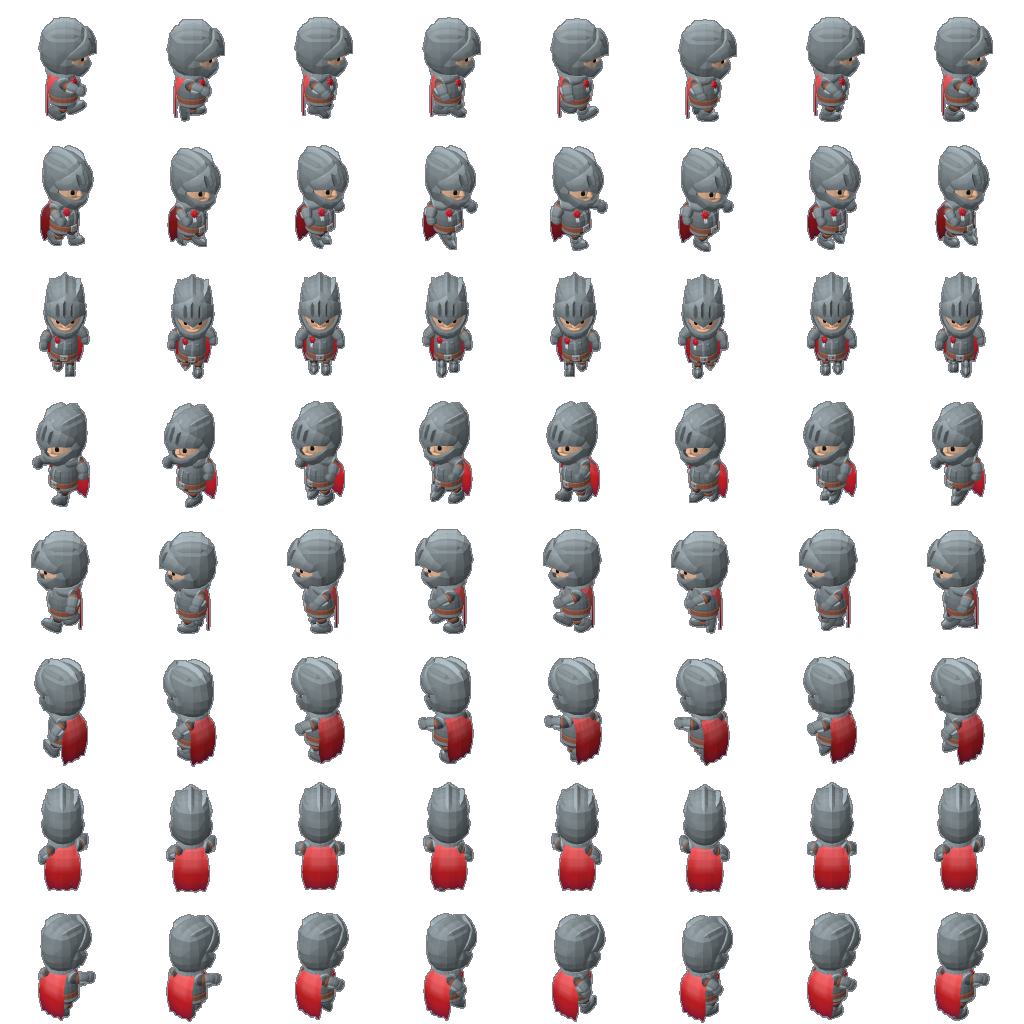
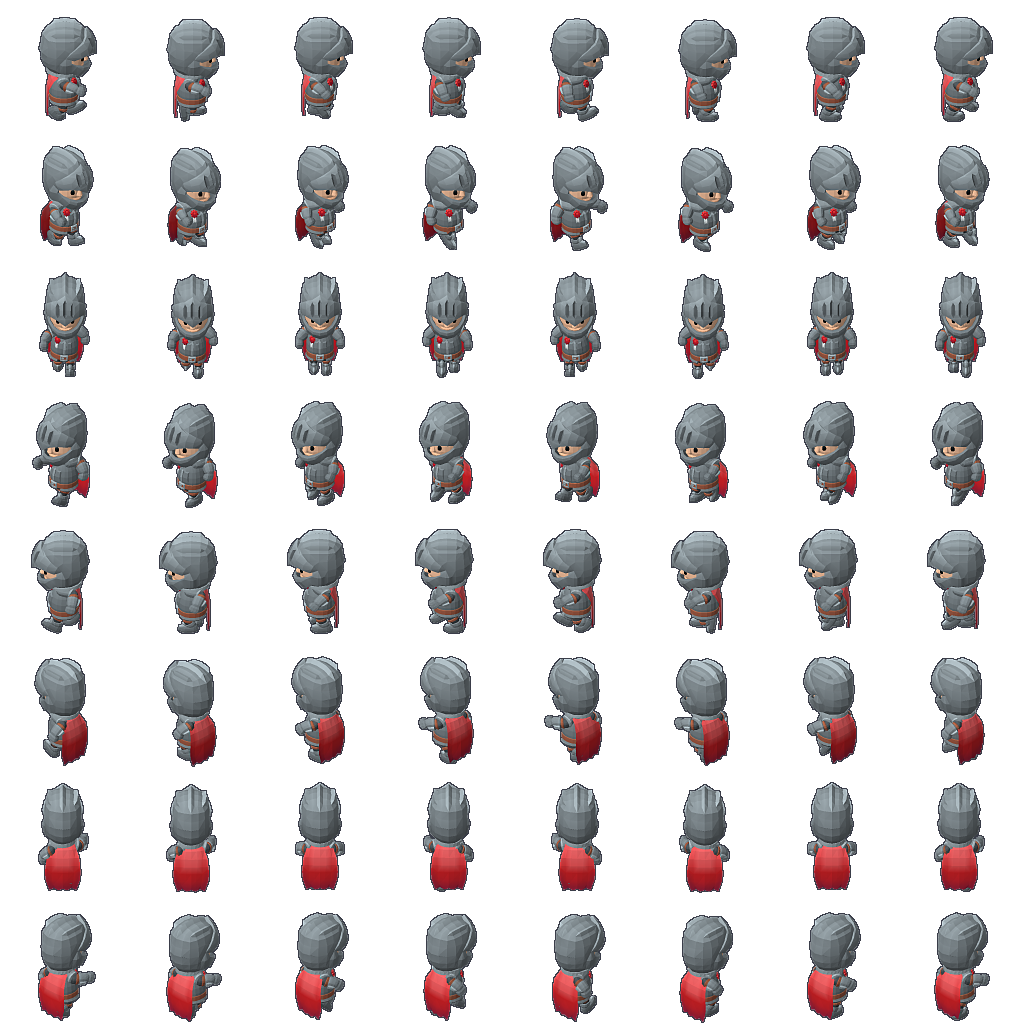
Город 0.23.2: чёткие жители, не пропадают и не замирают
Claude-Session: https://claude.ai/code/session_01NAK4mbhWpKoYFfv8XLsFMr

Changed region(s): [[0.5312, 0.6875, 0.5625, 0.7188], [0.0625, 0.9375, 0.0938, 0.9688], [0.0312, 0.4375, 0.0625, 0.4688]]

diff --git a/src/cityLive/wideLife.ts b/src/cityLive/wideLife.ts
@@ -3,33 +3,33 @@
 import type { CityRoute } from './paths.ts';
 
 export const lifeRoutes: CityRoute[] = ([
-  ['life-walk-coast-n', 'pedestrian', false, 4.2, 9, [[1957.4,890.2],[1933.9,900.0],[1915.0,906.1],[1892.9,909.1],[1872.8,909.3],[1808.2,897.8],[1710.3,876.0],[1676.9,865.3],[1655.1,853.1],[1630.6,835.6],[1619.2,825.8],[1605.5,811.2],[1598.4,799.5],[1599.0,793.0],[1587.0,783.0],[1581.0,786.3],[1573.1,786.8],[1549.3,782.9],[1499.2,781.1],[1358.8,784.7],[1328.9,787.7],[1304.4,792.8],[1270.9,803.3],[1248.2,813.8],[1164.8,869.4],[1143.3,882.2],[1120.2,891.8],[1100.8,896.8],[1061.6,902.3],[1040.3,907.6],[999.6,909.4],[970.0,905.5],[946.5,898.1],[930.8,887.3],[902.6,879.9],[883.9,872.8],[839.1,850.2],[793.5,829.9],[785.1,821.6],[786.0,819.0],[761.0,827.0],[760.4,824.9],[755.1,823.4],[745.1,816.3],[736.4,805.5],[696.6,788.1],[648.7,773.4],[577.5,749.1],[509.3,732.8],[472.4,717.5],[468.6,716.5],[454.5,718.0],[447.0,717.2],[440.2,714.4],[433.8,709.1],[426.2,698.5],[410.1,694.7],[394.0,683.5],[370.6,675.1],[279.0,648.8],[198.0,622.0],[147.2,600.7],[104.7,585.4],[97.3,579.7],[91.2,570.6],[86.6,566.8],[78.9,564.0],[80.0,563.0],[56.0,561.0],[57.3,559.0],[53.4,554.1]]],
-  ['life-walk-coast-n-back', 'pedestrian', false, 4.2, 9, [[53.4,554.1],[57.3,559.0],[56.0,561.0],[80.0,563.0],[78.9,564.0],[86.6,566.8],[91.2,570.6],[97.3,579.7],[104.7,585.4],[147.2,600.7],[198.0,622.0],[279.0,648.8],[370.6,675.1],[394.0,683.5],[410.1,694.7],[426.2,698.5],[433.8,709.1],[440.2,714.4],[447.0,717.2],[454.5,718.0],[468.6,716.5],[472.4,717.5],[509.3,732.8],[577.5,749.1],[648.7,773.4],[696.6,788.1],[736.4,805.5],[745.1,816.3],[755.1,823.4],[760.4,824.9],[761.0,827.0],[786.0,819.0],[785.1,821.6],[793.5,829.9],[839.1,850.2],[883.9,872.8],[902.6,879.9],[930.8,887.3],[946.5,898.1],[970.0,905.5],[999.6,909.4],[1040.3,907.6],[1061.6,902.3],[1100.8,896.8],[1120.2,891.8],[1143.3,882.2],[1164.8,869.4],[1248.2,813.8],[1270.9,803.3],[1304.4,792.8],[1328.9,787.7],[1358.8,784.7],[1499.2,781.1],[1549.3,782.9],[1573.1,786.8],[1581.0,786.3],[1587.0,783.0],[1599.0,793.0],[1598.4,799.5],[1605.5,811.2],[1619.2,825.8],[1630.6,835.6],[1655.1,853.1],[1676.9,865.3],[1710.3,876.0],[1808.2,897.8],[1872.8,909.3],[1892.9,909.1],[1915.0,906.1],[1933.9,900.0],[1957.4,890.2]]],
-  ['life-walk-coast-s', 'pedestrian', false, 4.2, 9, [[31.0,570.0],[53.0,569.0],[62.9,586.2],[65.8,594.4],[89.7,609.2],[103.7,610.1],[109.9,612.5],[122.9,621.7],[174.0,642.2],[178.1,643.5],[191.5,642.7],[202.4,644.6],[208.0,644.0],[213.0,665.0],[223.0,658.0],[223.5,659.6],[235.6,664.0],[312.4,687.7],[346.8,692.6],[361.2,701.3],[431.2,728.0],[476.4,749.9],[499.7,759.3],[572.9,776.9],[615.6,791.5],[644.4,795.1],[663.7,807.0],[687.4,814.4],[720.0,827.6],[821.0,872.6],[861.4,892.7],[879.5,898.2],[893.6,906.2],[908.2,910.5],[947.5,918.8],[997.2,926.4],[1032.2,929.4],[1067.3,929.5],[1102.2,925.1],[1111.8,922.6],[1130.2,912.2],[1149.0,907.9],[1167.5,900.3],[1188.9,887.3],[1255.2,841.8],[1277.7,830.7],[1301.4,822.5],[1345.0,812.1],[1501.3,809.1],[1536.4,810.0],[1550.8,813.6],[1565.5,815.2],[1568.7,817.2],[1581.3,832.9],[1595.2,841.9],[1606.3,851.9],[1634.5,872.8],[1647.1,878.9],[1661.6,880.2],[1672.0,883.2],[1682.8,889.4],[1693.6,900.3],[1702.9,903.0],[1805.9,925.9],[1835.7,929.9],[1860.8,930.1],[1895.9,928.1],[1960.4,918.2]]],
-  ['life-walk-coast-s-back', 'pedestrian', false, 4.2, 9, [[1960.4,918.2],[1895.9,928.1],[1860.8,930.1],[1835.7,929.9],[1805.9,925.9],[1702.9,903.0],[1693.6,900.3],[1682.8,889.4],[1672.0,883.2],[1661.6,880.2],[1647.1,878.9],[1634.5,872.8],[1606.3,851.9],[1595.2,841.9],[1581.3,832.9],[1568.7,817.2],[1565.5,815.2],[1550.8,813.6],[1536.4,810.0],[1501.3,809.1],[1345.0,812.1],[1301.4,822.5],[1277.7,830.7],[1255.2,841.8],[1188.9,887.3],[1167.5,900.3],[1149.0,907.9],[1130.2,912.2],[1111.8,922.6],[1102.2,925.1],[1067.3,929.5],[1032.2,929.4],[997.2,926.4],[947.5,918.8],[908.2,910.5],[893.6,906.2],[879.5,898.2],[861.4,892.7],[821.0,872.6],[720.0,827.6],[687.4,814.4],[663.7,807.0],[644.4,795.1],[615.6,791.5],[572.9,776.9],[499.7,759.3],[476.4,749.9],[431.2,728.0],[361.2,701.3],[346.8,692.6],[312.4,687.7],[235.6,664.0],[223.5,659.6],[223.0,658.0],[213.0,665.0],[208.0,644.0],[202.4,644.6],[191.5,642.7],[178.1,643.5],[174.0,642.2],[122.9,621.7],[109.9,612.5],[103.7,610.1],[89.7,609.2],[65.8,594.4],[62.9,586.2],[53.0,569.0],[31.0,570.0]]],
-  ['life-walk-sport-out', 'pedestrian', false, 4.0, 5, [[812.0,541.0],[807.1,534.8],[801.5,531.4],[792.1,529.0],[774.8,519.3],[756.2,511.3],[663.5,483.5],[597.0,457.8],[565.6,449.5],[549.5,439.1],[478.4,411.3],[449.1,402.7],[399.5,391.3],[355.9,377.1],[332.4,367.6],[313.0,355.0]]],
-  ['life-walk-sport-out-back', 'pedestrian', false, 4.0, 5, [[313.0,355.0],[332.4,367.6],[355.9,377.1],[399.5,391.3],[449.1,402.7],[478.4,411.3],[549.5,439.1],[565.6,449.5],[597.0,457.8],[663.5,483.5],[756.2,511.3],[774.8,519.3],[792.1,529.0],[801.5,531.4],[807.1,534.8],[812.0,541.0]]],
-  ['life-walk-eng-in', 'pedestrian', false, 4.0, 5, [[1165.3,527.5],[1230.9,524.9],[1244.0,518.6],[1255.8,515.2],[1266.1,515.5],[1281.4,518.7],[1285.8,517.8],[1299.1,510.2],[1310.8,506.9],[1321.5,507.1],[1336.2,509.9],[1355.7,502.7],[1371.2,503.9],[1385.9,501.5],[1397.3,495.6],[1400.0,489.0],[1416.0,489.0],[1417.8,493.5],[1421.4,492.7],[1478.7,476.1],[1521.6,461.0],[1537.8,452.2],[1549.8,454.4],[1556.0,457.0],[1567.0,445.0],[1587.2,435.5],[1599.0,425.2],[1634.0,413.9],[1639.0,408.0],[1656.0,407.0],[1663.9,413.7],[1669.2,415.7],[1672.0,415.0],[1688.0,436.0]]],
-  ['life-walk-eng-in-back', 'pedestrian', false, 4.0, 5, [[1688.0,436.0],[1672.0,415.0],[1669.2,415.7],[1663.9,413.7],[1656.0,407.0],[1639.0,408.0],[1634.0,413.9],[1599.0,425.2],[1587.2,435.5],[1567.0,445.0],[1556.0,457.0],[1549.8,454.4],[1537.8,452.2],[1521.6,461.0],[1478.7,476.1],[1421.4,492.7],[1417.8,493.5],[1416.0,489.0],[1400.0,489.0],[1397.3,495.6],[1385.9,501.5],[1371.2,503.9],[1355.7,502.7],[1336.2,509.9],[1321.5,507.1],[1310.8,506.9],[1299.1,510.2],[1285.8,517.8],[1281.4,518.7],[1266.1,515.5],[1255.8,515.2],[1244.0,518.6],[1230.9,524.9],[1165.3,527.5]]],
-  ['life-walk-eng-out', 'pedestrian', false, 4.0, 5, [[1692.0,409.0],[1642.2,401.4],[1621.9,401.2],[1606.8,402.8],[1577.6,410.8],[1544.7,424.0],[1463.6,452.7],[1385.5,474.1],[1256.2,496.3],[1241.1,503.1],[1191.1,513.6],[1179.8,514.3],[1158.0,509.0]]],
-  ['life-walk-eng-out-back', 'pedestrian', false, 4.0, 5, [[1158.0,509.0],[1179.8,514.3],[1191.1,513.6],[1241.1,503.1],[1256.2,496.3],[1385.5,474.1],[1463.6,452.7],[1544.7,424.0],[1577.6,410.8],[1606.8,402.8],[1621.9,401.2],[1642.2,401.4],[1692.0,409.0]]],
-  ['life-walk-globe', 'pedestrian', true, 4.4, 8, [[1170.1,562.8],[1173.2,549.5],[1173.4,539.5],[1171.1,529.8],[1166.8,520.7],[1156.6,510.0],[1123.3,497.8],[1113.6,492.1],[1111.2,489.1],[1109.0,490.0],[1105.0,466.0],[1101.6,467.7],[1097.1,467.0],[1087.9,468.7],[1064.3,463.1],[1019.8,455.6],[996.0,440.4],[982.4,436.0],[969.4,434.7],[948.1,438.2],[935.2,444.2],[918.3,458.8],[875.1,470.1],[842.5,483.5],[825.3,493.9],[813.6,503.4],[803.4,514.5],[789.5,534.6],[782.0,540.0],[790.4,556.8],[793.5,569.5],[805.3,583.3],[808.9,591.4],[815.7,598.5],[836.3,613.0],[863.6,625.8],[892.4,634.9],[926.9,641.7],[952.0,644.1],[972.0,643.2],[997.3,645.3],[1037.4,641.9],[1076.9,634.1],[1105.6,624.7],[1132.7,611.4],[1152.6,596.2],[1161.5,584.1]]],
+  ['life-walk-coast-n', 'pedestrian', false, 4.2, 9, [[1957.4,890.2],[1935.6,900.7],[1920.2,905.6],[1892.8,909.9],[1871.6,909.7],[1845.2,905.9],[1832.3,902.0],[1808.2,897.8],[1710.3,876.0],[1681.5,867.3],[1655.1,853.1],[1626.7,832.5],[1598.8,803.8],[1578.4,789.6],[1569.0,786.2],[1554.3,783.4],[1499.2,781.1],[1358.8,784.7],[1328.9,787.7],[1304.4,792.8],[1270.9,803.3],[1248.2,813.8],[1164.8,869.4],[1143.3,882.2],[1120.2,891.8],[1095.9,897.7],[1066.5,901.8],[1047.0,906.9],[1025.8,909.4],[994.1,909.6],[967.0,905.8],[947.9,899.8],[930.4,887.2],[888.4,875.0],[816.5,840.0],[800.9,824.4],[784.2,812.8],[777.9,810.8],[775.0,807.0],[757.0,828.0],[754.1,823.1],[748.4,820.1],[737.0,805.5],[701.3,789.8],[643.9,771.9],[582.3,750.5],[509.3,732.8],[477.0,719.4],[447.0,712.6],[435.6,705.8],[429.2,698.6],[414.6,698.1],[408.3,695.7],[397.3,685.5],[380.1,678.2],[283.7,650.3],[198.0,622.0],[147.2,600.7],[104.7,585.4],[54.0,554.0]]],
+  ['life-walk-coast-n-back', 'pedestrian', false, 4.2, 9, [[57.1,548.2],[108.5,579.4],[150.9,594.7],[201.8,615.9],[282.2,642.7],[304.8,654.2],[345.4,660.7],[396.9,676.5],[403.1,675.5],[409.0,670.0],[428.0,677.0],[429.2,683.7],[434.6,690.4],[430.0,696.0],[442.0,711.0],[459.8,715.9],[478.2,713.1],[481.5,713.7],[513.1,726.6],[581.3,742.9],[647.7,765.8],[700.4,782.0],[736.4,797.5],[742.2,803.0],[740.0,804.0],[775.0,806.0],[772.8,806.9],[781.6,810.2],[806.7,827.8],[892.1,869.0],[925.7,878.5],[932.7,879.2],[936.9,877.8],[934.0,879.0],[947.0,900.0],[952.8,899.7],[959.8,903.8],[972.0,906.6],[1004.0,910.0],[1019.2,909.9],[1046.7,906.9],[1066.7,900.6],[1080.3,893.6],[1104.5,888.7],[1123.7,883.1],[1142.0,874.9],[1163.5,862.0],[1242.5,808.8],[1265.1,798.0],[1298.4,787.1],[1322.9,781.6],[1352.7,778.1],[1493.1,774.3],[1553.2,776.2],[1577.5,781.7],[1586.5,786.0],[1598.8,794.6],[1623.0,819.8],[1634.3,829.6],[1658.8,847.2],[1680.6,859.4],[1709.2,868.5],[1811.8,891.5],[1849.3,906.7],[1881.0,910.0],[1919.9,905.6],[1931.8,901.8],[1942.4,896.6],[1951.8,889.3],[1956.3,883.3]]],
+  ['life-walk-coast-s', 'pedestrian', false, 4.2, 9, [[32.0,577.0],[55.0,572.0],[69.0,596.2],[94.5,611.5],[173.6,641.6],[187.4,640.6],[204.2,644.4],[220.0,653.0],[220.1,656.9],[226.3,660.8],[269.0,675.1],[312.4,687.6],[326.8,688.4],[337.1,690.7],[360.5,701.2],[431.2,728.0],[476.4,749.9],[499.7,759.3],[572.9,776.9],[615.6,791.5],[634.3,794.4],[644.5,797.4],[658.7,805.0],[687.4,814.4],[720.0,827.6],[821.0,872.6],[865.8,894.5],[894.4,903.1],[913.1,911.6],[947.5,918.8],[997.2,926.4],[1032.2,929.4],[1067.3,929.5],[1102.2,925.1],[1111.8,922.6],[1129.1,912.5],[1149.5,908.9],[1158.8,905.4],[1188.9,887.3],[1251.0,844.5],[1268.5,834.8],[1296.6,824.0],[1334.6,812.7],[1344.5,810.8],[1365.7,812.4],[1501.3,809.1],[1546.5,810.7],[1566.0,815.0],[1578.3,823.2],[1606.3,851.9],[1634.5,872.9],[1651.5,882.7],[1674.3,891.1],[1693.1,900.4],[1702.9,903.0],[1805.9,925.9],[1835.7,929.9],[1860.8,930.1],[1895.9,928.1],[1960.4,918.2]]],
+  ['life-walk-coast-s-back', 'pedestrian', false, 4.2, 9, [[1961.7,925.0],[1922.1,932.0],[1882.1,936.1],[1837.0,936.9],[1807.1,933.2],[1689.9,906.6],[1673.2,891.2],[1658.8,885.9],[1639.2,883.4],[1630.9,878.9],[1598.8,854.7],[1570.8,826.0],[1557.5,819.7],[1542.7,817.4],[1502.5,816.1],[1377.0,818.9],[1357.9,813.1],[1344.8,811.8],[1332.9,813.5],[1316.7,825.3],[1283.6,835.9],[1269.8,842.0],[1256.7,849.2],[1194.6,891.9],[1168.9,907.6],[1159.9,910.0],[1150.7,909.4],[1133.9,911.5],[1127.2,914.6],[1121.1,919.7],[1114.9,927.8],[1108.2,930.8],[1068.5,936.4],[1033.4,936.5],[998.4,933.6],[948.7,926.1],[910.1,917.7],[898.1,906.8],[887.2,900.8],[871.8,897.2],[853.3,896.2],[817.3,878.7],[716.3,833.7],[683.7,820.5],[664.7,814.5],[660.8,812.6],[650.2,801.0],[638.0,795.5],[626.4,793.6],[611.2,796.4],[607.0,795.8],[574.0,784.5],[515.2,771.1],[496.0,765.4],[472.7,755.9],[427.5,734.0],[362.4,709.0],[351.9,699.1],[341.1,692.3],[334.3,690.8],[326.1,691.8],[314.3,695.7],[222.4,667.2],[210.8,667.6],[208.6,666.3],[209.0,668.0],[200.0,643.0],[188.0,640.0],[177.0,643.0],[175.7,648.8],[170.0,648.2],[138.0,634.7],[90.8,617.5],[60.3,600.4],[47.1,596.9],[47.0,598.0],[32.0,579.0]]],
+  ['life-walk-sport-in', 'pedestrian', false, 4.0, 5, [[306.0,394.0],[308.1,394.4],[310.0,397.0],[326.0,397.0],[327.9,394.5],[373.5,411.8],[402.6,420.2],[456.7,432.8],[518.0,454.5],[537.6,451.8],[546.8,453.9],[554.1,459.2],[562.0,471.2],[565.6,473.8],[598.2,486.9],[617.2,488.2],[618.0,484.0],[638.0,489.0],[639.4,491.5],[644.1,492.0],[647.7,491.9],[654.0,487.0],[665.8,491.5],[675.2,492.1],[699.4,498.4],[738.4,512.7],[748.0,514.0],[762.0,530.0],[757.9,537.4],[759.8,540.6],[790.4,561.3]]],
+  ['life-walk-sport-out', 'pedestrian', false, 4.0, 5, [[808.7,541.7],[783.8,524.1],[756.2,511.3],[663.5,483.5],[596.9,457.9],[566.0,449.5],[549.5,439.1],[483.3,412.9],[454.0,404.0],[409.3,394.0],[384.8,387.0],[346.4,373.6],[313.6,359.6]]],
+  ['life-walk-sport-out-back', 'pedestrian', false, 4.0, 5, [[316.4,353.2],[348.9,367.1],[387.1,380.4],[411.5,387.3],[455.9,397.2],[489.7,407.8],[550.5,431.9],[553.6,433.6],[564.1,446.1],[571.0,450.3],[592.3,455.8],[611.9,456.5],[659.1,474.6],[688.0,483.6],[706.2,491.8],[716.1,493.8],[733.7,501.4],[774.6,511.9],[788.1,518.5],[812.8,536.0]]],
+  ['life-walk-eng-in', 'pedestrian', false, 4.0, 5, [[1165.3,527.5],[1231.0,525.3],[1249.0,516.8],[1255.2,515.2],[1261.5,514.9],[1281.4,519.1],[1308.2,506.5],[1321.3,506.2],[1336.3,509.8],[1351.0,506.2],[1385.8,501.4],[1398.1,494.7],[1420.3,492.7],[1473.9,477.8],[1521.6,461.0],[1538.9,451.2],[1542.8,450.6],[1559.0,457.0],[1574.3,441.3],[1592.6,434.3],[1619.3,427.2],[1628.2,417.1],[1636.8,412.5],[1648.1,410.1],[1658.0,410.6],[1663.4,413.9],[1667.0,412.0],[1686.0,436.0],[1685.2,436.7],[1687.0,435.0]]],
+  ['life-walk-eng-out', 'pedestrian', false, 4.0, 5, [[1692.0,410.0],[1642.2,401.4],[1621.9,401.2],[1606.8,402.8],[1577.6,410.8],[1544.7,424.0],[1463.6,452.7],[1390.4,472.9],[1251.0,496.8],[1237.7,500.0],[1221.9,506.6],[1198.0,511.8],[1174.2,514.8],[1161.0,513.0]]],
+  ['life-walk-eng-out-back', 'pedestrian', false, 4.0, 5, [[1161.0,513.0],[1180.1,514.2],[1198.0,511.8],[1216.9,507.2],[1241.9,498.5],[1256.5,489.7],[1260.9,488.5],[1335.7,475.8],[1365.6,473.8],[1376.8,471.4],[1395.4,464.4],[1463.9,445.3],[1545.2,416.4],[1578.2,403.2],[1602.6,396.4],[1622.7,394.1],[1642.2,394.4],[1665.9,404.9],[1693.0,410.0]]],
+  ['life-walk-globe', 'pedestrian', true, 4.4, 8, [[1170.1,562.8],[1173.2,549.5],[1173.4,539.5],[1169.2,525.2],[1163.9,516.8],[1143.0,504.7],[1128.8,499.6],[1115.3,492.1],[1109.2,486.5],[1101.1,474.2],[1069.2,464.1],[1019.9,455.3],[999.7,441.4],[987.8,437.1],[976.8,435.4],[963.1,435.4],[947.6,438.2],[935.7,444.4],[918.3,458.9],[875.1,470.1],[847.0,481.2],[833.8,488.6],[817.3,500.1],[803.4,514.5],[793.4,531.7],[790.8,546.4],[792.6,566.1],[808.6,591.6],[815.7,598.5],[840.6,615.5],[868.3,627.6],[897.2,636.1],[931.9,642.4],[967.0,645.4],[1002.3,645.2],[1042.4,641.2],[1076.9,634.1],[1105.6,624.7],[1132.7,611.4],[1152.6,596.2],[1161.5,584.1]]],
   ['wide-plaza-finance', 'pedestrian', true, 5.2, 11, [[250.3,611.7],[256.6,607.1],[262.1,605.5],[282.3,603.1],[353.5,601.8],[399.2,604.5],[413.7,608.5],[426.9,615.6],[432.2,623.3],[435.2,637.7],[431.6,646.1],[421.3,656.9],[417.1,659.2],[402.5,663.0],[377.3,666.3],[341.7,668.5],[316.2,668.7],[290.9,666.7],[266.4,660.1],[253.4,652.4],[246.1,646.0],[243.0,636.9],[242.0,626.2],[244.6,619.0]]],
-  ['wide-plaza-sport', 'pedestrian', true, 5.2, 11, [[553.1,425.7],[553.1,416.7],[556.5,412.3],[569.7,405.0],[595.0,402.5],[625.7,402.1],[651.3,402.9],[671.2,406.0],[686.8,418.4],[689.9,427.0],[687.9,441.6],[685.6,445.3],[681.8,447.9],[662.6,454.5],[632.2,457.4],[586.1,454.5],[570.7,451.2],[564.2,447.4],[557.5,438.1]]],
-  ['wide-plaza-health', 'pedestrian', true, 5.2, 11, [[872.9,378.4],[874.1,368.6],[877.3,358.3],[883.3,351.6],[887.7,349.9],[922.9,345.9],[973.8,345.0],[1029.8,347.0],[1054.4,352.7],[1058.8,354.8],[1065.1,361.8],[1069.6,370.8],[1071.3,380.2],[1066.0,399.3],[1059.1,406.0],[1046.2,413.9],[1016.7,422.4],[987.2,427.9],[970.9,428.9],[937.0,425.0],[937.1,423.9],[915.4,419.6],[891.4,411.8],[879.1,403.0],[875.4,398.6],[873.0,390.1]]],
-  ['wide-plaza-growth', 'pedestrian', true, 5.2, 11, [[1264.7,442.9],[1268.3,433.2],[1277.0,427.0],[1277.5,424.3],[1284.8,420.1],[1309.9,415.8],[1330.4,415.1],[1361.2,416.1],[1386.5,419.9],[1404.3,429.6],[1407.4,432.9],[1409.4,442.0],[1408.6,451.9],[1406.8,456.2],[1399.6,462.7],[1386.6,470.7],[1356.7,477.9],[1315.8,481.0],[1290.3,478.2],[1280.9,474.6],[1272.2,469.2],[1268.1,464.7],[1265.0,455.4]]],
-  ['wide-plaza-tasks', 'pedestrian', true, 5.2, 11, [[922.4,872.1],[924.5,865.7],[928.2,861.8],[941.0,854.3],[991.7,850.6],[1006.8,846.1],[1022.7,851.0],[1063.4,854.0],[1073.3,856.2],[1087.5,861.4],[1090.8,864.1],[1092.6,873.0],[1091.7,882.8],[1089.7,886.9],[1078.3,896.5],[1069.5,901.4],[1044.4,907.2],[998.5,909.4],[967.9,905.6],[943.0,897.4],[926.3,886.1],[923.1,880.0]]],
+  ['wide-plaza-sport', 'pedestrian', true, 5.2, 11, [[553.0,425.6],[553.1,416.7],[556.5,412.3],[569.7,405.0],[595.0,402.5],[625.7,402.1],[651.3,402.9],[671.2,406.0],[686.8,418.4],[689.9,427.0],[687.9,441.6],[685.6,445.3],[681.8,447.9],[662.6,454.5],[632.2,457.4],[590.8,455.8],[570.4,450.8],[563.9,447.0],[557.3,437.8]]],
+  ['wide-plaza-health', 'pedestrian', true, 5.2, 11, [[871.5,378.2],[872.6,368.8],[877.1,358.5],[883.3,351.6],[887.7,349.9],[928.0,345.6],[978.9,345.0],[1029.8,347.0],[1054.4,352.7],[1058.8,354.8],[1065.1,361.8],[1069.6,370.8],[1071.3,380.2],[1066.0,399.3],[1059.1,406.0],[1046.2,413.9],[1011.3,423.4],[986.0,426.5],[960.6,426.9],[934.8,423.9],[910.6,418.1],[891.4,411.8],[879.1,403.0],[875.2,398.6],[872.4,389.9]]],
+  ['wide-plaza-growth', 'pedestrian', true, 5.2, 11, [[1264.5,441.1],[1266.9,431.3],[1271.0,427.0],[1284.7,420.1],[1309.9,415.8],[1335.6,415.1],[1361.2,416.1],[1386.5,419.9],[1404.3,429.6],[1407.4,432.9],[1409.4,442.0],[1408.6,451.9],[1406.8,456.2],[1399.6,462.7],[1386.6,470.7],[1356.7,477.9],[1315.8,481.0],[1290.3,478.2],[1280.9,474.6],[1272.2,469.2],[1268.1,464.6],[1265.0,454.6]]],
+  ['wide-plaza-tasks', 'pedestrian', true, 5.2, 11, [[922.4,872.1],[924.5,865.7],[928.2,861.8],[941.0,854.3],[966.3,851.7],[1007.2,850.9],[1043.0,852.3],[1068.4,854.9],[1087.5,861.4],[1090.8,864.1],[1092.6,873.0],[1091.7,882.8],[1089.7,886.9],[1078.3,896.5],[1069.6,901.1],[1044.0,907.6],[1003.0,910.0],[966.6,906.0],[942.0,898.3],[926.3,886.1],[923.1,880.0]]],
   ['wide-plaza-joint', 'pedestrian', true, 5.2, 11, [[1433.3,733.7],[1436.2,723.6],[1440.0,718.8],[1452.5,710.5],[1477.4,707.4],[1523.1,707.6],[1573.6,712.7],[1598.2,718.6],[1606.1,723.5],[1610.7,732.1],[1613.4,741.5],[1611.3,750.6],[1603.7,763.3],[1595.4,767.9],[1585.7,770.7],[1575.8,772.7],[1550.5,774.4],[1474.3,775.5],[1449.5,772.5],[1438.0,763.1],[1434.7,757.9],[1432.7,747.5]]],
-  ['wide-plaza-english', 'pedestrian', true, 5.2, 11, [[1688.9,572.0],[1686.9,562.8],[1689.2,557.8],[1701.0,549.2],[1721.0,546.9],[1751.5,546.0],[1776.9,546.4],[1796.9,549.7],[1801.2,551.6],[1808.0,558.6],[1813.2,566.7],[1813.7,570.8],[1807.3,582.9],[1799.3,589.3],[1779.6,595.1],[1754.3,596.9],[1728.9,596.0],[1708.7,593.2],[1703.0,590.8],[1695.6,583.4]]],
+  ['wide-plaza-english', 'pedestrian', true, 5.2, 11, [[1688.9,572.0],[1686.9,562.8],[1689.2,557.8],[1701.0,549.2],[1721.0,546.9],[1751.5,546.0],[1776.9,546.4],[1796.9,549.7],[1801.2,551.6],[1808.0,558.6],[1813.2,566.7],[1813.8,570.7],[1808.0,583.2],[1799.2,590.0],[1774.6,595.9],[1754.3,596.9],[1728.9,596.0],[1708.7,593.2],[1703.0,590.8],[1695.6,583.4]]],
   ['wide-plaza-leisure', 'pedestrian', true, 5.2, 11, [[1796.1,863.4],[1799.2,857.6],[1803.1,853.9],[1811.3,848.0],[1820.5,844.2],[1865.8,838.7],[1916.5,839.0],[1941.4,843.3],[1958.1,854.2],[1963.9,861.8],[1967.2,881.2],[1964.1,890.3],[1955.7,902.6],[1947.3,907.2],[1937.6,909.8],[1922.6,912.1],[1897.2,912.9],[1841.4,910.1],[1821.8,905.9],[1804.7,895.8],[1795.5,877.6],[1794.8,870.8]]],
-  ['wide-plaza-globe', 'pedestrian', true, 5.2, 12, [[852.1,545.5],[851.0,541.0],[854.0,520.0],[860.5,509.9],[874.8,496.7],[908.4,481.8],[914.1,469.9],[922.5,457.1],[930.2,453.5],[940.0,441.0],[987.0,475.0],[995.3,474.5],[1024.0,468.0],[1023.7,469.5],[1038.1,480.7],[1056.5,486.8],[1079.2,497.7],[1091.8,506.1],[1099.1,512.8],[1109.3,529.9],[1110.7,539.5],[1108.0,559.2],[1097.5,576.0],[1089.8,582.0],[1066.6,591.7],[1047.0,596.4],[1018.8,600.8],[996.0,607.0],[995.9,602.6],[993.1,601.7],[968.0,600.7],[967.0,598.0],[956.0,591.0],[949.6,598.5],[941.0,600.7],[916.3,596.9],[892.1,590.0],[874.0,581.2],[866.5,574.8],[857.4,561.9]]],
-  ['life-sea-nw-out', 'water', false, 18, 3, [[310.0,163.0],[350.5,162.7],[407.5,174.4],[450.9,174.6],[473.8,190.9],[488.0,193.7],[502.4,191.3],[531.4,174.2],[596.4,169.5],[610.0,165.0]]],
-  ['life-sea-nw-back', 'water', false, 17, 3, [[609.0,175.0],[590.2,171.1],[539.7,172.5],[525.9,176.4],[501.8,192.1],[482.6,194.7],[455.8,185.4],[426.6,181.7],[357.5,163.5],[318.0,164.0]]],
-  ['life-sea-w', 'water', false, 14, 2, [[93.0,397.0],[106.5,403.0],[121.6,404.8],[131.6,403.5],[152.8,395.1],[182.2,394.3],[200.3,386.5],[215.0,372.0]]],
-  ['life-sea-sw-out', 'water', false, 22, 4, [[144.0,872.0],[162.0,866.3],[187.2,866.2],[201.2,869.1],[282.0,944.1],[305.0,948.8],[380.7,949.4],[433.2,957.6],[445.2,965.4],[478.2,996.1],[539.3,1020.4],[590.6,1031.6],[603.0,1038.4],[625.8,1057.0],[650.0,1060.0]]],
-  ['life-sea-sw-mid', 'water', false, 26, 3, [[187.0,907.0],[205.0,901.3],[219.8,901.8],[228.7,904.9],[304.6,978.9],[326.9,960.3],[340.2,955.5],[406.0,955.3],[419.8,958.9],[480.1,1019.2],[483.7,1032.9],[483.0,1068.0]]],
-  ['life-sea-sw-north', 'water', false, 18, 3, [[160.0,835.0],[216.0,871.2],[296.2,873.6],[322.5,883.8],[345.0,887.4],[360.6,908.4],[403.9,950.4],[436.4,957.8],[461.1,971.7],[475.4,973.9],[531.0,973.6],[540.3,971.4],[552.0,963.0]]],
-  ['life-sea-s-out', 'water', false, 22, 4, [[1300.0,1030.0],[1319.8,1029.0],[1337.7,1023.5],[1371.8,996.0],[1388.6,987.8],[1402.7,985.3],[1437.9,985.2],[1452.2,987.3],[1496.4,1002.5],[1548.0,1036.4],[1576.0,1042.1],[1597.7,1050.6],[1676.3,1056.0],[1750.0,1051.0]]],
-  ['life-sea-e', 'water', false, 12, 2, [[1640.0,340.0],[1702.7,345.0],[1740.3,344.7],[1760.0,340.0]]],
+  ['wide-plaza-globe', 'pedestrian', true, 5.2, 12, [[852.1,542.9],[852.5,528.2],[855.2,518.5],[860.0,510.1],[874.8,496.7],[910.0,481.1],[920.8,460.1],[924.9,454.6],[931.9,452.4],[940.0,441.0],[988.0,475.0],[1025.0,466.0],[1026.8,473.5],[1033.3,478.6],[1070.3,493.0],[1095.7,509.2],[1107.2,525.5],[1109.3,529.9],[1110.7,539.5],[1108.0,559.2],[1097.5,576.0],[1089.8,582.0],[1071.4,590.2],[1047.0,596.4],[1022.0,600.3],[991.8,601.9],[941.3,600.7],[916.3,596.9],[892.1,590.0],[874.0,581.2],[866.5,574.8],[857.4,561.7]]],
+  ['life-sea-nw-out', 'water', false, 18, 3, [[310.0,163.0],[350.5,162.7],[407.5,174.4],[450.9,174.6],[473.8,190.9],[488.0,193.7],[502.5,191.6],[531.0,173.3],[581.2,170.2],[610.0,165.0]]],
+  ['life-sea-nw-back', 'water', false, 17, 3, [[613.0,175.0],[594.5,170.3],[534.0,172.6],[525.0,175.6],[501.3,192.7],[486.9,194.8],[472.4,192.7],[455.0,185.2],[425.6,181.7],[389.3,170.4],[356.2,163.4],[341.5,162.4],[317.0,165.0]]],
+  ['life-sea-w', 'water', false, 14, 2, [[92.0,397.0],[105.6,402.0],[120.4,403.5],[145.9,394.8],[163.8,397.6],[178.8,396.9],[196.8,389.8],[215.0,372.0]]],
+  ['life-sea-sw-out', 'water', false, 22, 4, [[145.0,873.0],[163.6,869.1],[193.9,869.1],[207.9,871.8],[240.3,891.2],[298.3,945.8],[311.8,948.8],[382.2,949.5],[430.0,956.4],[442.4,963.0],[475.0,994.0],[496.7,1002.8],[529.2,1022.0],[551.6,1029.0],[594.4,1035.5],[625.8,1057.5],[650.0,1060.0]]],
+  ['life-sea-sw-mid', 'water', false, 26, 3, [[186.0,908.0],[194.2,903.3],[208.6,901.1],[228.3,902.3],[236.9,906.2],[294.7,962.9],[305.6,978.4],[326.3,960.0],[334.9,956.2],[400.5,955.1],[419.3,958.7],[479.8,1018.7],[483.7,1032.4],[482.0,1067.0]]],
+  ['life-sea-sw-north', 'water', false, 18, 3, [[160.0,835.0],[195.7,858.8],[218.3,877.5],[243.5,889.9],[262.9,892.0],[348.1,890.8],[361.0,906.9],[404.2,949.0],[412.6,953.2],[436.0,957.8],[461.2,970.2],[475.3,972.8],[525.7,972.7],[535.1,970.9],[547.0,963.0]]],
+  ['life-sea-s-out', 'water', false, 22, 4, [[1300.0,1030.0],[1319.9,1029.0],[1337.8,1023.5],[1350.0,1016.1],[1372.0,995.9],[1384.3,988.8],[1403.1,985.3],[1438.3,985.3],[1452.1,988.6],[1473.0,999.4],[1501.1,1004.9],[1548.8,1036.4],[1576.8,1042.2],[1598.4,1051.1],[1687.6,1056.0],[1751.0,1050.0]]],
+  ['life-sea-e', 'water', false, 12, 2, [[1640.0,340.0],[1681.6,344.6],[1724.5,346.0],[1745.8,345.1],[1760.0,340.0]]],
 ] as const).map(([id, kind, closed, speed, capacity, points]) => ({ id, kind, closed, speed, capacity,
   points: points.map(([x, y]) => ({ x: x / 2000, y: y / 1125 })) }));

diff --git a/src/cityLive/simulation.ts b/src/cityLive/simulation.ts
@@ -45,7 +45,7 @@ export type Agent = {
   id: number; kind: CityRoute['kind']; path: LanePath; distance: number; position: Sample;
   currentSpeed: number; targetSpeed: number; acceleration: number; deceleration: number;
   safeDistance: number; safeRadius: number; vehicleAhead: number | null;
-  sprite: number; state: 'WALK'|'IDLE'|'LOOK'|'SIT'; wait: number; age: number; retireAt?:number; stuck?: number;
+  sprite: number; state: 'WALK'|'IDLE'|'LOOK'|'SIT'; wait: number; age: number; retireAt?:number; stuck?: number; shiftX?: number; shiftY?: number;
 };
 export class IntersectionController {
   reservations = new Map<string,number>();
@@ -111,6 +111,15 @@ export class CitySimulation {
     this.profile=profile; this.intersections=new IntersectionController(profile);
     this.paths=routes.map(r=>new LanePath(r,profile)); this.seed=seed;
   }
+  private pairs=new Map<LanePath,LanePath|null>();
+  /** Обратная дорожка пары `id` ↔ `id-back` (одна геометрия, противоположное направление). */
+  pairOf(path: LanePath) {
+    if (!this.pairs.has(path)) {
+      const id=path.route.id,other=id.endsWith('-back') ? id.slice(0,-5) : id+'-back';
+      this.pairs.set(path,this.paths.find(p=>p.route.id===other&&!p.route.closed)??null);
+    }
+    return this.pairs.get(path)??null;
+  }
   random() { this.seed=(Math.imul(this.seed,1664525)+1013904223)>>>0; return this.seed/4294967296; }
   spawn(path: LanePath, distance=0): boolean {
     if (this.agents.filter(a=>a.path===path).length>=path.route.capacity) return false;
@@ -123,7 +132,7 @@ export class CitySimulation {
     Object.assign(agent,{ id:this.nextId++,kind,path,distance,position,currentSpeed:0,
       targetSpeed:path.route.speed*(.86+this.random()*.15),acceleration:kind==='road'?6:kind==='water'?2:4,
       deceleration:kind==='road'?15:kind==='water'?5:8,safeDistance:(kind==='water'?70:kind==='road'?27:9)*(kind==='pedestrian'?1:scale),
-      safeRadius:radius,vehicleAhead:null,sprite,state:'WALK',wait:0,age:0,stuck:0 });
+      safeRadius:radius,vehicleAhead:null,sprite,state:'WALK',wait:0,age:0,stuck:0,shiftX:0,shiftY:0 });
     delete agent.retireAt;
     this.agents.push(agent); return true;
   }
@@ -158,9 +167,9 @@ export class CitySimulation {
         if (agent.state!=='WALK') {
           target=0;
           if (agent.wait<=0) agent.state='WALK';
-        } else if (agent.age>8 && this.random()<dt*.045) {
+        } else if (agent.age>8 && this.random()<dt*.012) {
           agent.state=(['IDLE','LOOK','SIT'] as const)[Math.floor(this.random()*3)];
-          agent.wait=2+this.random()*5;
+          agent.wait=1+this.random()*2;
         }
       }
       const look=agent.path.at(agent.distance+Math.max(agent.safeDistance,agent.currentSpeed*1.5));
@@ -181,7 +190,9 @@ export class CitySimulation {
           const dx=other.position.x-agent.position.x,dy=other.position.y-agent.position.y;
           const forward=dx*Math.cos(agent.position.angle)+dy*Math.sin(agent.position.angle);
           const sideways=Math.abs(-dx*Math.sin(agent.position.angle)+dy*Math.cos(agent.position.angle));
-          if (forward>0&&sideways<agent.safeRadius+other.safeRadius+8&&Math.cos(agent.position.angle-other.position.angle)>.25) gap=forward;
+          // Житель уступает на пересечении дорожек только жителю с меньшим номером: так двое не ждут друг друга вечно.
+          const yields=agent.kind!=='pedestrian'||other.id<agent.id;
+          if (yields&&forward>0&&sideways<agent.safeRadius+other.safeRadius+8&&Math.cos(agent.position.angle-other.position.angle)>.25) gap=forward;
         }
         if (gap<agent.safeDistance+agent.currentSpeed*1.2) {
           agent.vehicleAhead=other.id;
@@ -192,19 +203,31 @@ export class CitySimulation {
       const change=(target>agent.currentSpeed ? agent.acceleration : agent.deceleration)*dt;
       agent.currentSpeed+=Math.max(-change,Math.min(change,target-agent.currentSpeed));
       const distance=agent.distance+agent.currentSpeed*dt;
-      const next=agent.path.at(distance);
-      const blocked=this.agents.some(other=>other!==agent&&other.kind===agent.kind&&
+      // Сдвиг после разворота на обратной дорожке плавно затухает: житель не «прыгает» в сторону.
+      const decay=Math.exp(-dt/1.2);agent.shiftX=(agent.shiftX??0)*decay;agent.shiftY=(agent.shiftY??0)*decay;
+      const raw=agent.path.at(distance),next=agent.shiftX||agent.shiftY ? {...raw,x:raw.x+(agent.shiftX??0),y:raw.y+(agent.shiftY??0)} : raw;
+      // Жители не блокируют друг друга жёстко: встречные на обратных дорожках расходятся, а не замирают лицом к лицу.
+      const blocked=agent.kind!=='pedestrian'&&this.agents.some(other=>other!==agent&&other.kind===agent.kind&&
         Math.hypot(next.x-other.position.x,next.y-other.position.y)<agent.safeRadius+other.safeRadius+1);
       if (blocked) { agent.currentSpeed=0;this.collisionStops++; }
       else { agent.distance=agent.path.route.closed ? distance%agent.path.length : distance;agent.position=next; }
       // Пробка на перекрёстке или суда на пересекающихся путях не должны стоять вечно: застрявший транспорт плавно уходит со сцены.
-      if ((agent.kind==='road'&&!agent.path.route.training)||agent.kind==='water') {
+      if ((agent.kind==='road'&&!agent.path.route.training)||agent.kind==='water'||(agent.kind==='pedestrian'&&agent.state==='WALK')) {
         agent.stuck=agent.currentSpeed<.5 ? (agent.stuck??0)+dt : 0;
-        if (agent.stuck>9&&agent.retireAt===undefined) agent.retireAt=agent.age+2;
+        if (agent.stuck>(agent.kind==='pedestrian' ? 14 : 9)&&agent.retireAt===undefined) agent.retireAt=agent.age+2;
       }
     }
     for (let i=this.agents.length-1;i>=0;i--) {
       const a=this.agents[i];
+      // Конец открытой дорожки: житель разворачивается на обратную (`…-back`) и идёт дальше, а не исчезает.
+      if (a.kind==='pedestrian'&&a.retireAt===undefined&&!a.path.route.closed&&a.distance>=a.path.length-.1) {
+        const pair=this.pairOf(a.path);
+        if (pair) {
+          const start=pair.at(0);
+          a.shiftX=(a.shiftX??0)+a.position.x-start.x;a.shiftY=(a.shiftY??0)+a.position.y-start.y;
+          a.path=pair;a.distance=0;a.position=start;a.currentSpeed*=.5;continue;
+        }
+      }
       if ((a.retireAt!==undefined&&a.age>=a.retireAt)||(!a.path.route.closed&&a.distance>=a.path.length-.1)) { this.pool.push(a);this.agents.splice(i,1); }
     }
     if (this.elapsed>this.nextSpawn) {

diff --git a/src/cityLive/render.ts b/src/cityLive/render.ts
@@ -186,7 +186,7 @@ export class CityRenderer {
         const moving=a.state==='WALK'&&a.currentSpeed>.2;
         const frame=moving?Math.floor(a.distance/(a.path.route.runner?2.4:1.7))%8:0;
         // Рост ~18 CSS-пикселей на экране, но не меньше 22 и не больше 52 единиц карты.
-        const size=Math.max(22,Math.min(52,22/Math.max(.05,opts.unitPx??1)))*(a.path.route.runner?1.05:1);
+        const size=Math.max(26,Math.min(60,26/Math.max(.05,opts.unitPx??1)))*(a.path.route.runner?1.05:1);
         ctx.drawImage(look,frame*cell,row*cell,cell,cell,-size/2,-size*.94,size,size);
       }
       if (rain) {ctx.fillStyle='#2d7bb5';ctx.beginPath();ctx.arc(0,-17*k,5.6*k,Math.PI,0);ctx.fill();ctx.strokeStyle='#1d3d55';ctx.lineWidth=.7*k;ctx.beginPath();ctx.moveTo(0,-17*k);ctx.lineTo(0,-10*k);ctx.stroke();}

diff --git a/index.html b/index.html
@@ -4,7 +4,7 @@
     <meta charset="UTF-8" />
     <meta name="viewport" content="width=device-width, initial-scale=1.0, viewport-fit=cover" />
     <title>PLAY YOUR LIFE</title>
-    <meta name="application-version" content="0.23.1" />
+    <meta name="application-version" content="0.23.2" />
     <meta name="description" content="PLAY YOUR LIFE — игровая система развития жизни, целей, привычек и достижений." />
     <meta name="theme-color" content="#edf8ff" />
     <meta name="apple-mobile-web-app-capable" content="yes" />

diff --git a/scripts/build-city-people.py b/scripts/build-city-people.py
@@ -203,11 +203,13 @@ def render(model, parts, heading, scale, base):
     small = cv2.resize(rgba, (CELL, CELL), interpolation=cv2.INTER_AREA)
     a = small[..., 3] / 255.0
     rgb = np.where(a[..., None] > 0, small[..., :3] / np.maximum(a[..., None] * 255, 1e-3) * 255, 0)
+    blur = cv2.GaussianBlur(rgb.astype(np.float32), (0, 0), 1.0)
+    rgb = np.clip(rgb + .7 * (rgb - blur), 0, 255)
     # Плотная фигура: мягкие края (суперсэмплинг) подтягиваем к 0/1, внутри альфа ровно 1.
     solid = np.clip((a - .12) / .45, 0, 1)
     # Тонкий тёмный контур в 1 px вокруг фигуры — не «тает» на светлой плитке и воде.
     ring = cv2.dilate((solid > .35).astype(np.uint8), np.ones((3, 3), np.uint8)).astype(np.float32)
-    outline = np.clip(ring - solid, 0, 1) * .55
+    outline = np.clip(ring - solid, 0, 1) * .85
     out_a = np.clip(solid + outline * (1 - solid), 0, 1)
     ink = np.array([22, 26, 40], np.float32)
     mix = (rgb * solid[..., None] + ink * (outline * (1 - solid))[..., None]) / np.maximum(out_a[..., None], 1e-3)

diff --git a/scripts/build-wide-life.py b/scripts/build-wide-life.py
@@ -180,7 +180,7 @@ def main():
         base = smooth(resample(lane['pts']), 3, closed)
         p = simplify(offset_right(base, off, closed), 0.9, closed)
         entries.append((rid, 'pedestrian', closed, speed, cap, p))
-        if both and not closed: entries.append((rid + '-back', 'pedestrian', False, speed, cap, p[::-1]))
+        if both and not closed: entries.append((rid + '-back', 'pedestrian', False, speed, cap, offset_right(p[::-1], -7)))
     land = land_distance()
     for k, (rid, kind, closed, speed, cap, p) in enumerate(entries):
         entries[k] = (rid, kind, closed, speed, cap, keep_dry(p, land, closed))

diff --git a/CHANGELOG.md b/CHANGELOG.md
@@ -1,5 +1,13 @@
 # Актуальная версия PLAY YOUR LIFE
 
+## 0.23.2 — 14 октября 2026
+
+«Город»: жители чётче и не пропадают.
+
+- Спрайты жителей пересобраны: плотнее тёмный контур и мягкая резкость, на карте они крупнее (26–60 ед.) и читаются так же чётко, как машины.
+- Пешеходы больше не замирают и не исчезают: нет жёсткой остановки друг перед другом, при встрече срабатывает уступка по номеру; в конце пути житель разворачивается и идёт обратно по встречному тротуару вместо удаления. Встречные потоки идут по разным краям тротуара (смещение 7 px).
+- Тесты: за 25 с ≥90 % жителей движутся, пропадает не более четверти (`tests/alive-city.test.ts`).
+
 ## 0.23.1 — 14 октября 2026
 
 Магазин: светлая тема «Награды Люкс» и 3D-модели в новых карточках.
